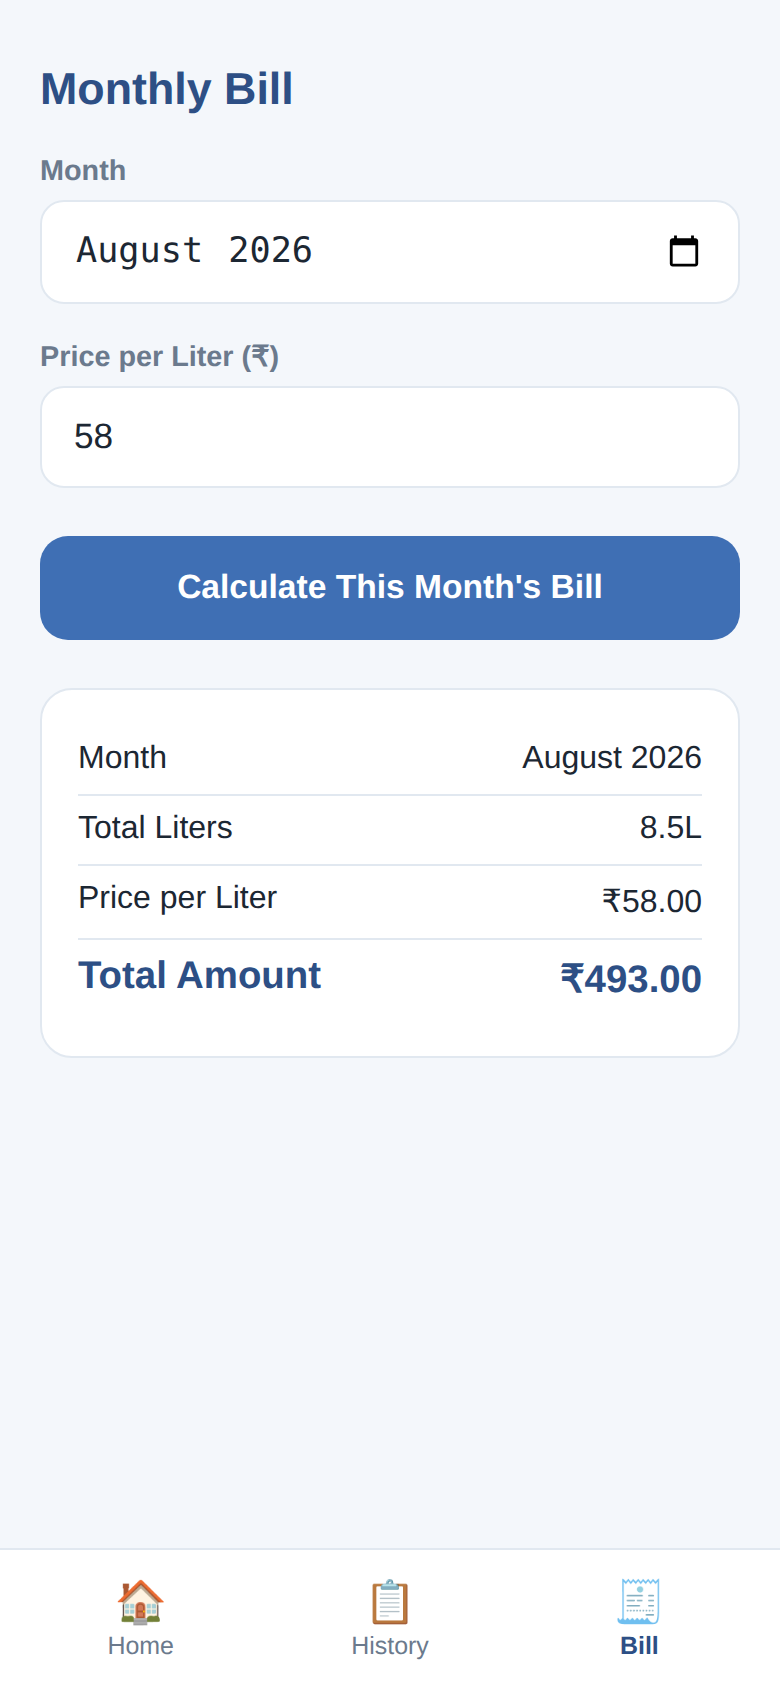
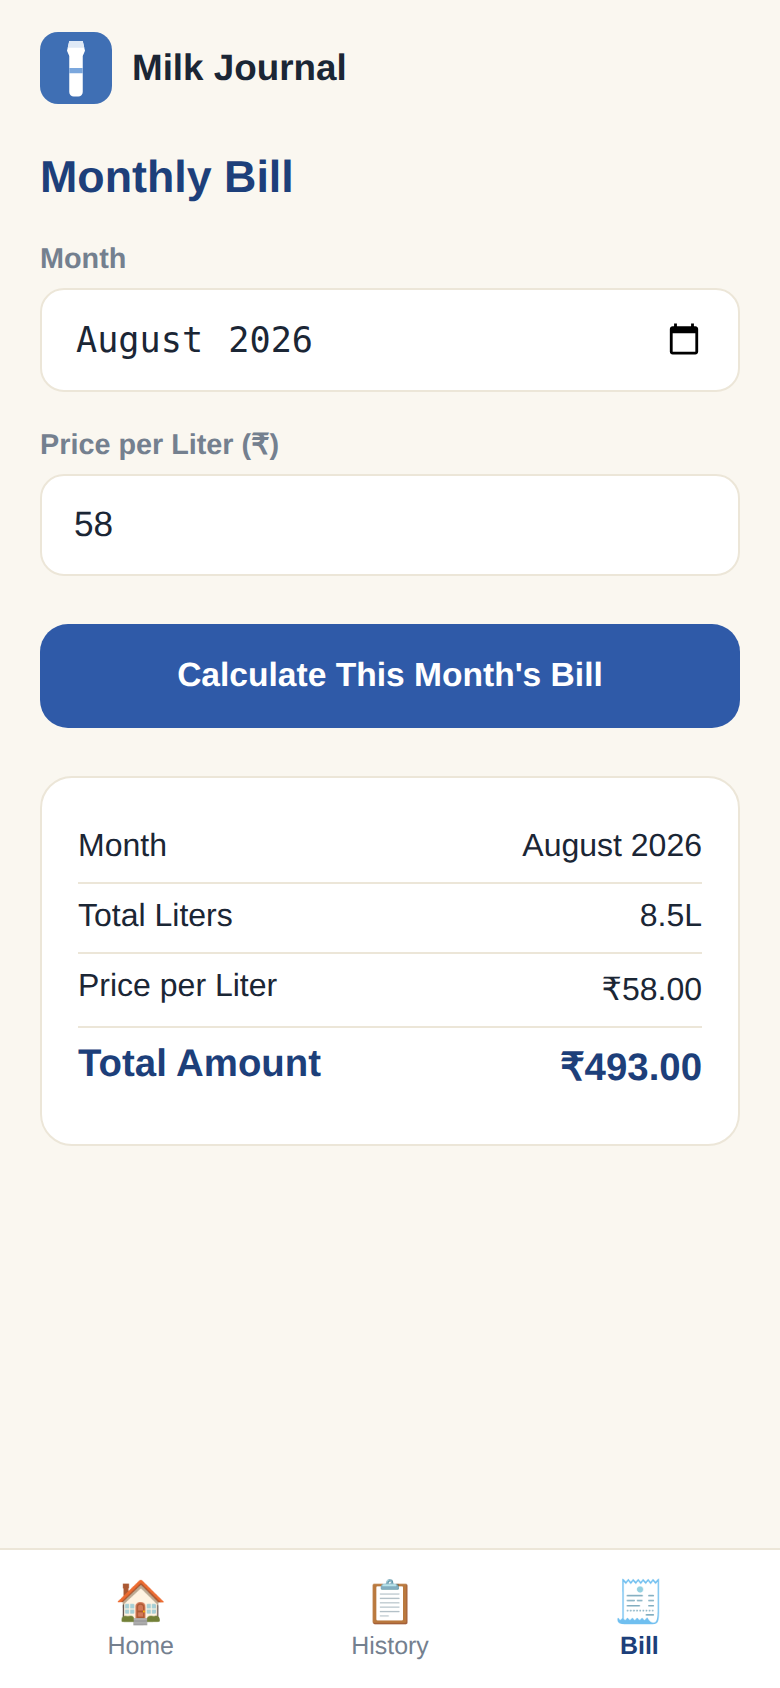
Add social preview image and refresh screenshots for the new design
The README screenshots were still showing the pre-redesign UI; they're
regenerated here against the current header/today-card/install-prompt
layout. Also adds Open Graph and Twitter Card meta tags plus a proper
1200x630 social-preview.png so links shared to WhatsApp, Twitter/X,
Slack, etc. render a real preview card instead of a bare link.

diff --git a/index.html b/index.html
@@ -6,6 +6,17 @@
 <title>Milk Journal</title>
 <meta name="theme-color" content="#2f5aa8">
 <meta name="description" content="Track daily milk purchases and calculate your monthly bill.">
+
+<meta property="og:type" content="website">
+<meta property="og:title" content="Milk Journal">
+<meta property="og:description" content="Tap how much milk showed up today. At the end of the month, it adds it all up and tells you exactly what you owe — no guessing, no arguing, no spreadsheet.">
+<meta property="og:url" content="https://eldhoabe.github.io/MilkDiary/">
+<meta property="og:image" content="https://eldhoabe.github.io/MilkDiary/docs/screenshots/social-preview.png">
+<meta name="twitter:card" content="summary_large_image">
+<meta name="twitter:title" content="Milk Journal">
+<meta name="twitter:description" content="Tap how much milk showed up today. At the end of the month, it adds it all up and tells you exactly what you owe.">
+<meta name="twitter:image" content="https://eldhoabe.github.io/MilkDiary/docs/screenshots/social-preview.png">
+
 <link rel="manifest" href="manifest.json">
 <link rel="icon" href="icon.svg" type="image/svg+xml">
 <link rel="apple-touch-icon" href="icon.svg">

diff --git a/README.md b/README.md
@@ -1,5 +1,7 @@
 # Milk Journal
 
+![Milk Journal](docs/screenshots/social-preview.png)
+
 Every month it's the same fight: the milkman says one number, your fuzzy
 memory says another, and somewhere there's a scrap of paper with tally
 marks that's either lost or wrong. Milk Journal replaces that scrap of
